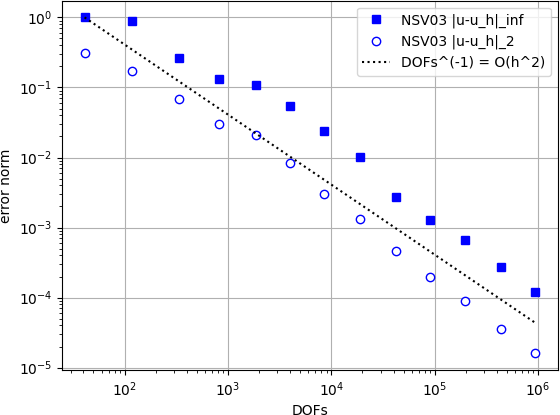
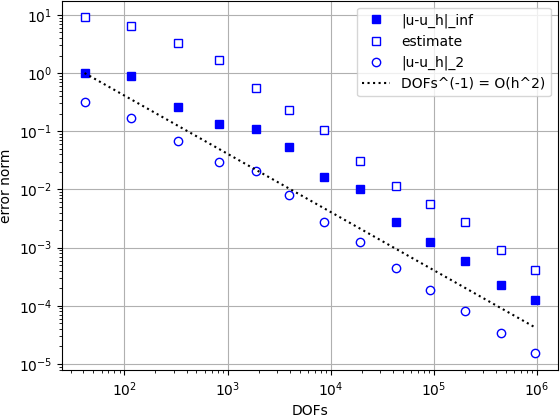
substantial implementation and results section

diff --git a/doc/nsv-box/box.tex b/doc/nsv-box/box.tex
@@ -12,6 +12,7 @@
 \else
   \DeclareGraphicsExtensions{.eps}
 \fi
+\usepackage[export]{adjustbox} % Extends \includegraphics with 'valign'
 
 % hyperref should be the last package we load
 \usepackage[pdftex,
@@ -24,15 +25,17 @@ urlcolor=blue,
 
 \numberwithin{equation}{section}
 
-\theoremstyle{theorem}
+\theoremstyle{plain}
 \newtheorem{theorem}{Theorem}[section]  % numbering from section number
 \newtheorem{proposition}[theorem]{Proposition}
 \newtheorem{lemma}[theorem]{Lemma}
 \newtheorem{corollary}[theorem]{Corollary}
 
 \theoremstyle{definition}
-\newtheorem{remark}[theorem]{Remark}
 \newtheorem{example}[theorem]{Example}
+
+\theoremstyle{remark}
+\newtheorem{remark}[theorem]{Remark}
 
 \newcommand{\eps}{\epsilon}
 \newcommand{\Om}{\Omega}
@@ -93,7 +96,7 @@ The VIAMR library\footnote{\href{https://github.com/StefanoFochesatto/viamr}{git
 
 This paper extends the \cite{NSV03} estimator to the bilateral or box-constrained case, that is, with continuous lower \emph{and upper} bounds.  Theorem~\ref{thm:reliability} shows that our estimator $E_h$, defined in \eqref{eq:Eh}, bounds the error $\|u-u_h\|_{0,\infty;\Om}$, and \S \ref{sec:efficiency} shows that each term of $E_h$ is locally efficient, up to oscillation terms.  However, we leave open the further refinements of \cite{NSV05} in the bilateral setting, namely full localization and barrier sets; see Remark~\ref{rem:localization}.  Furthermore, proven reliability and efficiency of this kind are generally not available for nonlinear and/or degenerate operators, nor for the heuristic methods in the VIAMR library.
 
-We are not aware of any pointwise \emph{a posteriori} theory for the bilateral problem, and this motivates the present paper.  Somewhat nearby, Ot\'arola, Rankin, \& Salgado \cite{Otarolaetal2019} prove reliable and efficient maximum-norm \emph{a posteriori} bounds for a problem with genuine box constraints, using the machinery of \cite{NSV03}.  However, their constrained variable is a control, determined by a pointwise projection of the adjoint state, so there is no free boundary of the present kind, and no pointwise barrier construction like that in \S \ref{sec:barriers}.  By contrast, our constrained variable is the solution of the VI itself.
+We are not aware of any pointwise \emph{a posteriori} theory for the bilateral problem, and this motivates the present paper.  FIXME no implementation in ALBERTA apparently.\footnote{The repository cited by \cite{Siebert2011} seems to no longer exist, but we searched \href{https://gitlab.com/alberta-fem/alberta3}{gitlab.com/alberta-fem/alberta3}, which has been recently maintained.  A broader internet search found no implementations.}  Somewhat nearby, Ot\'arola, Rankin, \& Salgado \cite{Otarolaetal2019} prove reliable and efficient maximum-norm \emph{a posteriori} bounds for a problem with genuine box constraints, using the machinery of \cite{NSV03}.  However, their constrained variable is a control, determined by a pointwise projection of the adjoint state, so there is no free boundary of the present kind, and no pointwise barrier construction like that in \S \ref{sec:barriers}.  By contrast, our constrained variable is the solution of the VI itself.
 
 The sections of this paper form two major parts.  Sections \ref{sec:setup} and \ref{sec:discretization} form the first part; they state the continuum bilateral problem, quantify the separation of its two contact sets, and build the discretization.  Nothing in the first part is specific to the constructed estimators.  For the second part, Sections \ref{sec:estimator} through \ref{sec:efficiency} are the bilateral form of the estimator of \cite{NSV03}, which is assembled from element-wise contact sets, and they prove reliability, via continuous barrier functions, and efficiency.  Section \ref{sec:discuss} concludes with a discussion of the implementation, and an outlook.
 
@@ -1119,38 +1122,42 @@ As \cite[\S 6.3]{NSV03} observes, the local bound \eqref{eq:effquad} does not ob
 \subsection{Summary regarding efficiency}  Collecting Propositions~\ref{prop:effresidual}, \ref{prop:effdetach}, and \ref{prop:effquad}, every term of the estimator $E_h$ in \eqref{eq:Eh} is locally efficient, up to the load oscillation $\|h^2(f-\bar f)\|_{0,\infty;T}$, the obstacle approximations \eqref{eq:obstacleapprox}, and the discrete obstacle oscillations \eqref{eq:jumposc}.  All of these are second order for data in $W^{2,\infty}$ (Remark~\ref{rem:smoothobstacles}).  Global efficiency follows for every term except the quadrature estimator, exactly as in the unilateral case.  The logarithmic factor $|\log h_{\min}|^2$ multiplying the first two terms of \eqref{eq:Eh} is not recovered by these lower bounds, but on the other hand it comes from linear theory and not from the obstacles \cite[Remark 5.10]{NSV03}.
 
 
-\section{Library implementation, and results}
+\section{Implementation and results}
 \label{sec:library}
 
-TODO: discuss the VIAMR implementation and show brief results
+The pointwise estimator $E_h$ \eqref{eq:Eh} has been implemented as element-wise local error indicators \cite{BangerthRannacher2003,Siebert2011} in the VIAMR Python library.\footnote{Download the library and its documentation from \href{https://github.com/StefanoFochesatto/viamr}{github.com/StefanoFochesatto/viamr}.}  The library builds on the Firedrake FE package \cite{Rathgeberetal2016}, itself based on the parallel unstructured mesh abstraction from PETSc \cite{Langeetal2016}.  In this section we give show three basic examples which exhibit some features of the estimator.
+
+The implementation adapts the ``practical estimator'' of \cite[equation (7.1)]{NSV03} to the bilateral case.  As in that approach, we group all terms into a local indicator $\eta_{\infty,T}$, except the localized quadrature indicator $\eta_{d,T}$, which is only used when quadrature error dominates.  We lump the $|\log h_{\min}|^2$ factor into the constants, with the same default values; we made no attempt to tune these constants.  The local indicators are computed as scalar fields in the discontinuous piecewise-constant space.  Element-wise maxima of data $g,\psilo,\psiup$ are evaluated using high-degree nodal evaluation.  Element marking is based on the maximum strategy \cite{Siebert2011} and mesh refinement is skeleton-based \cite{PlazaCarey2000}.
 
 \begin{example} \label{ex:bilateral}
-To test the box-constraints estimator \eqref{eq:Eh} we constructed a radial exact solution $u(r)$, $r=\sqrt{x_1^2+x_2^2}$, of a bilateral obstacle problem on the square $\Omega=(-2,2)^2$ (Figure \ref{fig:bilateral}).  The box constraints are $\psilo=-1\le u\le 1=\psiup$, and the fixed boundary condition is $g=0$ on $\partial\Omega$.  The upper constact set $\Ctop$ is the disk $r\le 1/2$ while the lower contact set $\Cbot$ is the annulus $1\le r\le 3/2$.  The $u(r)$ is piecewise-quartic and $C^1$ across each free boundary.
-\end{example}
+To test the new bilateral estimator we constructed a radial exact solution\footnote{Details are in \texttt{examples/bilateral.py} in the library.} $u(r)$, $r=\sqrt{x_1^2+x_2^2}$, on the square $\Omega=(-2,2)^2$ (Figure \ref{fig:bilateral}, left).  The box constraints are $\psilo=-1$ and $\psiup=+1$, and the fixed boundary condition is $g=0$ (on $\partial\Omega$).  The solution $u(r)$ is piecewise-quartic and $C^1$ across the free boundaries (circles at $r=1/2,1,3/2$), but $u\in W^{2,\infty}(\Omega) \setminus C^2(\Omega)$ with $\sigma=-\triangle u - f$ jumping by $|f|=48$ across each free boundary.  The upper contact set $\Ctop$ is the disk $r\le 1/2$ while the lower contact set $\Cbot$ is the annulus $1\le r\le 3/2$.  The data are all affine in this case, thus $g=I_h g$, $\psiloh=\psilo$, $\psiuph=\psiup$, and $\cK_h = \cK \cap \Vh$ (fully-conforming), and it follows that \eqref{eq:Eh} reduces to the localized residual, quadrature, and detachment terms.
 
 \begin{figure}[ht]
-\centering
-\includegraphics[width=0.45\textwidth]{figs/bilateral-surf.png}
-\caption{Solution $u_h$ of Example \ref{ex:bilateral} on a refined mesh.}
+\noindent \mbox{\includegraphics[width=0.25\textwidth, valign=c]{figs/bilateral-surf.png}
+\quad \includegraphics[width=0.32\textwidth, valign=c]{figs/bilateral-mark-4.png}
+\quad\includegraphics[width=0.32\textwidth, valign=c]{figs/bilateral-mark-7.png}}
+\caption{Left: Example \ref{ex:bilateral} solution $u$.  Middle: At early refinement stages (3 levels), large transitional elements are marked.  Right: Marking focusses in the inactive set, and only very near the resolved free boundaries (6 levels).}
 \label{fig:bilateral}
 \end{figure}
 
-\begin{figure}[ht]
-\centering
-\mbox{\includegraphics[width=0.4\textwidth]{figs/bilateral-mark-4.png}
-\qquad\includegraphics[width=0.4\textwidth]{figs/bilateral-mark-7.png}}
-\caption{At coarser resolutions (left: 3 levels of refinement) marking covers large parts of the active set because of transitional elements.  Later in the refinement path (right: 6 levels), little of the active sets are being marked, while marking continues in the inactive set and very close to the well-resolved free boundary.}
-\label{fig:bilateralmark}
-\end{figure}
+The experiment starts from a coarse, structured mesh of $64$ triangles on $\Omega$, thus the circular free boundaries are completely unresolved.  The VI problem at each stage is solved, with tight tolerances, by PETSc's box-bounds active-set method \cite{BensonMunson2006}.  Similar to results from \cite[\S 7]{NSV03} in the unilateral case, in early refinement stages large cells overlapping the (exact) contact sets are marked (Figure \ref{fig:bilateral}).  However, in later refinement stages, marking concentrates into the inactive sets, where \eqref{eq:Eh} essentially reduces to its first term, an estimator of classical \cite{BabuskaRheinboldt1978} type, though additional marking occurs very close to the resolved free boundaries; the latter is driven primarily by the detachment terms.  Pointwise errors and the effectivity index behave as expected out to $N=10^6$ degrees of freedom (Figure \ref{fig:bilateralperf}).
 
 \begin{figure}[ht]
 \centering
-\mbox{\includegraphics[width=0.47\textwidth]{figs/bilateral-conv.png}
-\qquad\includegraphics[width=0.465\textwidth]{figs/bilateral-eff.png}}
-\caption{FIXME}
+\mbox{\includegraphics[width=0.421\textwidth]{figs/bilateral-conv.png}
+\qquad\includegraphics[width=0.42\textwidth]{figs/bilateral-eff.png}}
+\caption{Example \ref{ex:bilateral}: pointwise $L^\infty$ and (normalized) $L^2$ norms decay at the optimal rate (left), with the effectivity ratio settling around 4 (right).}
 \label{fig:bilateralperf}
 \end{figure}
+\end{example}
 
+\begin{example} \label{ex:easyunilateral}
+FIXME show easy case \texttt{examples/nsv.py} in $d=3$ with compare to \cite[Figure 7.1, lower]{NSV03}
+\end{example}
+
+\begin{example} \label{ex:pyramidunilateral}
+FIXME show pyramid case in $d=2$ with compare to \cite[Figure 7.6, left]{NSV03}, and show result from \cite{NSV05} on this example
+\end{example}
 
 \section{Discussion and outlook}
 \label{sec:discuss}
@@ -1162,7 +1169,7 @@ TODO: some kind of outlook?
 
 \section{Declaration of generative artifical intelligence usage}  \label{sec:ai}
 
-During the preparation of this manuscript, the author used Claude Opus 5.5 to propose aspects of the extension from the unilateral case \cite{NSV03} to box constraints, to edit the language, and to generate certain implementations and tests within the VIAMR library.  For cases where Claude was used, the \href{https://github.com/StefanoFochesatto/viamr}{corresponding repository commit messages} acknowledge AI usage.  The author, who thoroughly reviewed, edited, and validated the resulting content, assumes full and sole responsibility for the originality, accuracy, and integrity of the entire content of this work.
+The author used Claude Opus 5.5 to propose mathematical content, to edit the language, to generate initial implementations, and to write software tests.  For cases where Claude was used, the \href{https://github.com/StefanoFochesatto/viamr}{corresponding repository commit messages} acknowledge AI usage.  The author thoroughly reviewed, edited, and validated the resulting content.  He assumes full and sole responsibility for the originality, accuracy, and integrity of the entire content of this work.
 
 \bibliographystyle{siamplain}
 \bibliography{box}
